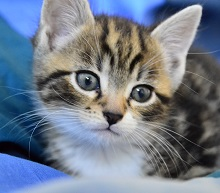
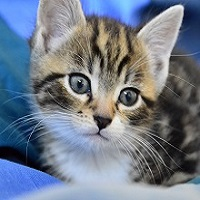
photos resize
retouche photo pour plsu leger et position

diff --git a/index.html b/index.html
@@ -207,7 +207,7 @@
 				        		</div>
 				        	</div>
 				    	</div>	<!-- col-md-4 -->
-				    	<div class="col-md-4 col-sm-6 text-center">
+				    	<div class="col-md-4 col-sm-12 text-center">
 				    		<div class= "row wow animated zoomIn" data-wow-delay="1.1s">
 				    			<div class="col-md-8 col-md-offset-2">
 				    				<img class="img-circle img-responsive center-block" src="img/Didit.jpg" alt= "Didit Lagarde" >
@@ -260,26 +260,25 @@
 		                    </a>
 		                </li>
 
-		                <li>
-		                    <a href="#">
-		                        <strong>Remediation</strong>
-		                        <span class="price_table-description">1 consulation</span>
-		                        <span class="price_table-description">1 compte rendu</span>
-		                        <span class="price_table-description">1 etude remediative</span>
-		                        <big class="price_table-price">350€</big>
-		                        <span class="price_table-button">Prendre RDV</span>
-		                    </a>
+		                <li><a href="#">
+                            <strong>Bilan Neuropsy</strong>
+                            <span class="price_table-description">1 consultation</span>
+                            <span class="price_table-description">1 test (4h)</span>
+                            <span class="price_table-description">1 entretien de restitution + compte rendu</span>
+                            <big class="price_table-price">450€</big>
+                            <span class="price_table-button">Prendre RDV</span>
+                        </a>
 		                </li>
 
 		                <li>
 		                    <a href="#">
-		                        <strong>Bilan Neuropsy</strong>
-		                        <span class="price_table-description">1 consultation</span>
-		                        <span class="price_table-description">1 test (4h)</span>
-		                        <span class="price_table-description">1 entretien de restitution + compte rendu</span>
-		                        <big class="price_table-price">450€</big>
-		                        <span class="price_table-button">Prendre RDV</span>
-		                    </a>
+                            <strong>Remediation</strong>
+                            <span class="price_table-description">1 consulation</span>
+                            <span class="price_table-description">1 compte rendu</span>
+                            <span class="price_table-description">1 etude remediative</span>
+                            <big class="price_table-price">350€</big>
+                            <span class="price_table-button">Prendre RDV</span>
+                        </a>
 		                </li>
 		            </ul>
 	    		</div>	<!-- row main_content -->
@@ -308,9 +307,8 @@
 		    							<i class= "fa fa-laptop"></i>
 		    						</span>
 		    					</div>
-		    					<a href="#"><img class= "img-responsive" src="img/design1.png" alt=""/></a>
+		    					<a href="#"><img class= "img-responsive" src="http://lorempixel.com/400/200" alt=""/></a>
 		    				</div>
-		    				<img class="hidden-xs post-shadow" src="img/post-shadow.png" alt=""/>
 		    			</div>
 		    			<div class= "post-excerpt col-md-7">
 		    				<h2 class="title"><a href="#">FLAT &amp; MODERN TREND DESIGN</a></h2>
@@ -351,16 +349,8 @@
 		    		<div class="main_content">
 		    			<div class="post-thumbnail col-md-5">
 		    				<div class="frame">
-		    					<div class="post-format image">
-		    						<span class="icon-facetime-video">
-		    							<i class="fa fa-video-camera"></i>
-		    						</span>
-		    					</div>
-		    					<div class="vimeo-video" rel="" data-width="500" data-height="400">
-		    						<iframe width="420" height="315" src="//www.youtube.com/embed/DN__D5ixme0" frameborder="0" allowfullscreen></iframe>
-		    					</div>
 		    				</div>
-		    				<img class="hidden-xs post-shadow" src="img/post-shadow.png" alt=""/>
+		    				<img class="hidden-xs post-shadow" src="http://lorempixel.com/400/200" alt=""/>
 		    			</div>
 		    			<div class="post-excerpt col-md-7">
 		    				<h2 class="title">
@@ -410,7 +400,7 @@
 		    					</div>
 		    					<a href="#"><img class= "img-responsive" src="img/blog3.png" alt=""/></a>
 		    				</div>
-		    				<img class="hidden-xs post-shadow" src="img/post-shadow.png" alt=""/>
+		    				<img class="hidden-xs post-shadow" src="http://lorempixel.com/400/200" alt=""/>
 		    			</div>
 		    			<div class="post-excerpt col-md-7">
 		    				<h2 class="title">
@@ -423,55 +413,6 @@
 		    				</p>
 		    				<div class="line-dotted"></div>
 		    				<p class="meta"><strong>Date: </strong>14/February/2013 <strong>By: </strong>Zyanya Peredo<strong>In: </strong><a href="#">Photography</a>, <a href="#">Print</a>, <a href="#">Design</a>
-		    				</p>
-		    				<div class="line-dotted"></div>
-		    				<div class= "post-share">
-		    					<p>Share this post:</p>
-		    					<ul>
-		    						<li>
-		    							<a href="#" data-toggle="tooltip" title="Contact with Facebook" class= "team-facebook">
-					        				<i class="fa fa-facebook"></i>
-					        			</a>
-		    						</li>
-		    						<li>
-		    							<a href="#" data-toggle="tooltip" title="Contact with Twitter" class= "team-twitter">
-					        				<i class="fa fa-twitter"></i>
-					        			</a>
-		    						</li>
-		    						<li>
-		    							<a href="#" data-toggle="tooltip" title="Contact with Google-plus" class= "team-google-plus">
-					        				<i class="fa fa-google-plus"></i>
-					        			</a>
-		    						</li>
-		    					</ul>
-		    				</div>
-		    			</div>
-		    		</div>
-		    	</div>
-		    	<div class="row post">
-		    		<div class="main_content">
-		    			<div class="post-thumbnail col-md-5">
-		    				<div class="frame">
-		    					<div class="post-format gallery">
-		    						<span class="icon-quote-left">
-		    							<i class= "fa fa-bookmark"></i>
-		    						</span>
-		    					</div>
-		    					<a href="#"><img class= "img-responsive" src="img/global_focus.jpg" alt=""/></a>
-		    				</div>
-		    				<img class="hidden-xs post-shadow" src="img/post-shadow.png" alt=""/>
-		    			</div>
-		    			<div class="post-excerpt col-md-7">
-		    				<h2 class="title">
-		    					<a href="#">The most beautiful quotes ever</a>
-		    				</h2>
-		    				<div class="line-dotted"></div>
-		    				<p>
-		    					Diur apelligh to luriem rorde ist thuir quire contears foresa irmde narelair muiers lirguen luirem joires porfelas wateir ogespear pesae. Irmde gues narelair muiers lirguen luirem joires porf wateir ogeepear pesae. Diur tol apelligh to luriem rorde ist thuir quire contears foresa irmde narelair muiers lirguen luirem joires porfelas quie wateir ogespear pesae. Irmde gues narelair muiers lirguen luirem joires porf wateir ogeepear pesae.
-		    					<a href="#">...Read more</a>
-		    				</p>
-		    				<div class="line-dotted"></div>
-		    				<p class="meta"><strong>Date:</strong> 14/February/2013 <strong>By:</strong> Zyanya Peredo <strong>In:</strong> <a href="#">Photography</a>, <a href="#">Print</a>, <a href="#">Design</a>
 		    				</p>
 		    				<div class="line-dotted"></div>
 		    				<div class= "post-share">
@@ -520,7 +461,7 @@
 	    			<div class= "bg-image col-md-12">
 	    				<div class= "col-md-6 col-md-offset-3 wow animated zoomInDown" id= "heading-text">
 		        			<h3>Testimonials</h3>
-		                	<p>Their satisfication, Our inspiration.</p>
+		                	<p>Leur satisfaction, mon inspiration.</p>
 		                	<hr class= "full">
 		                	<br/>
 		        		</div>
